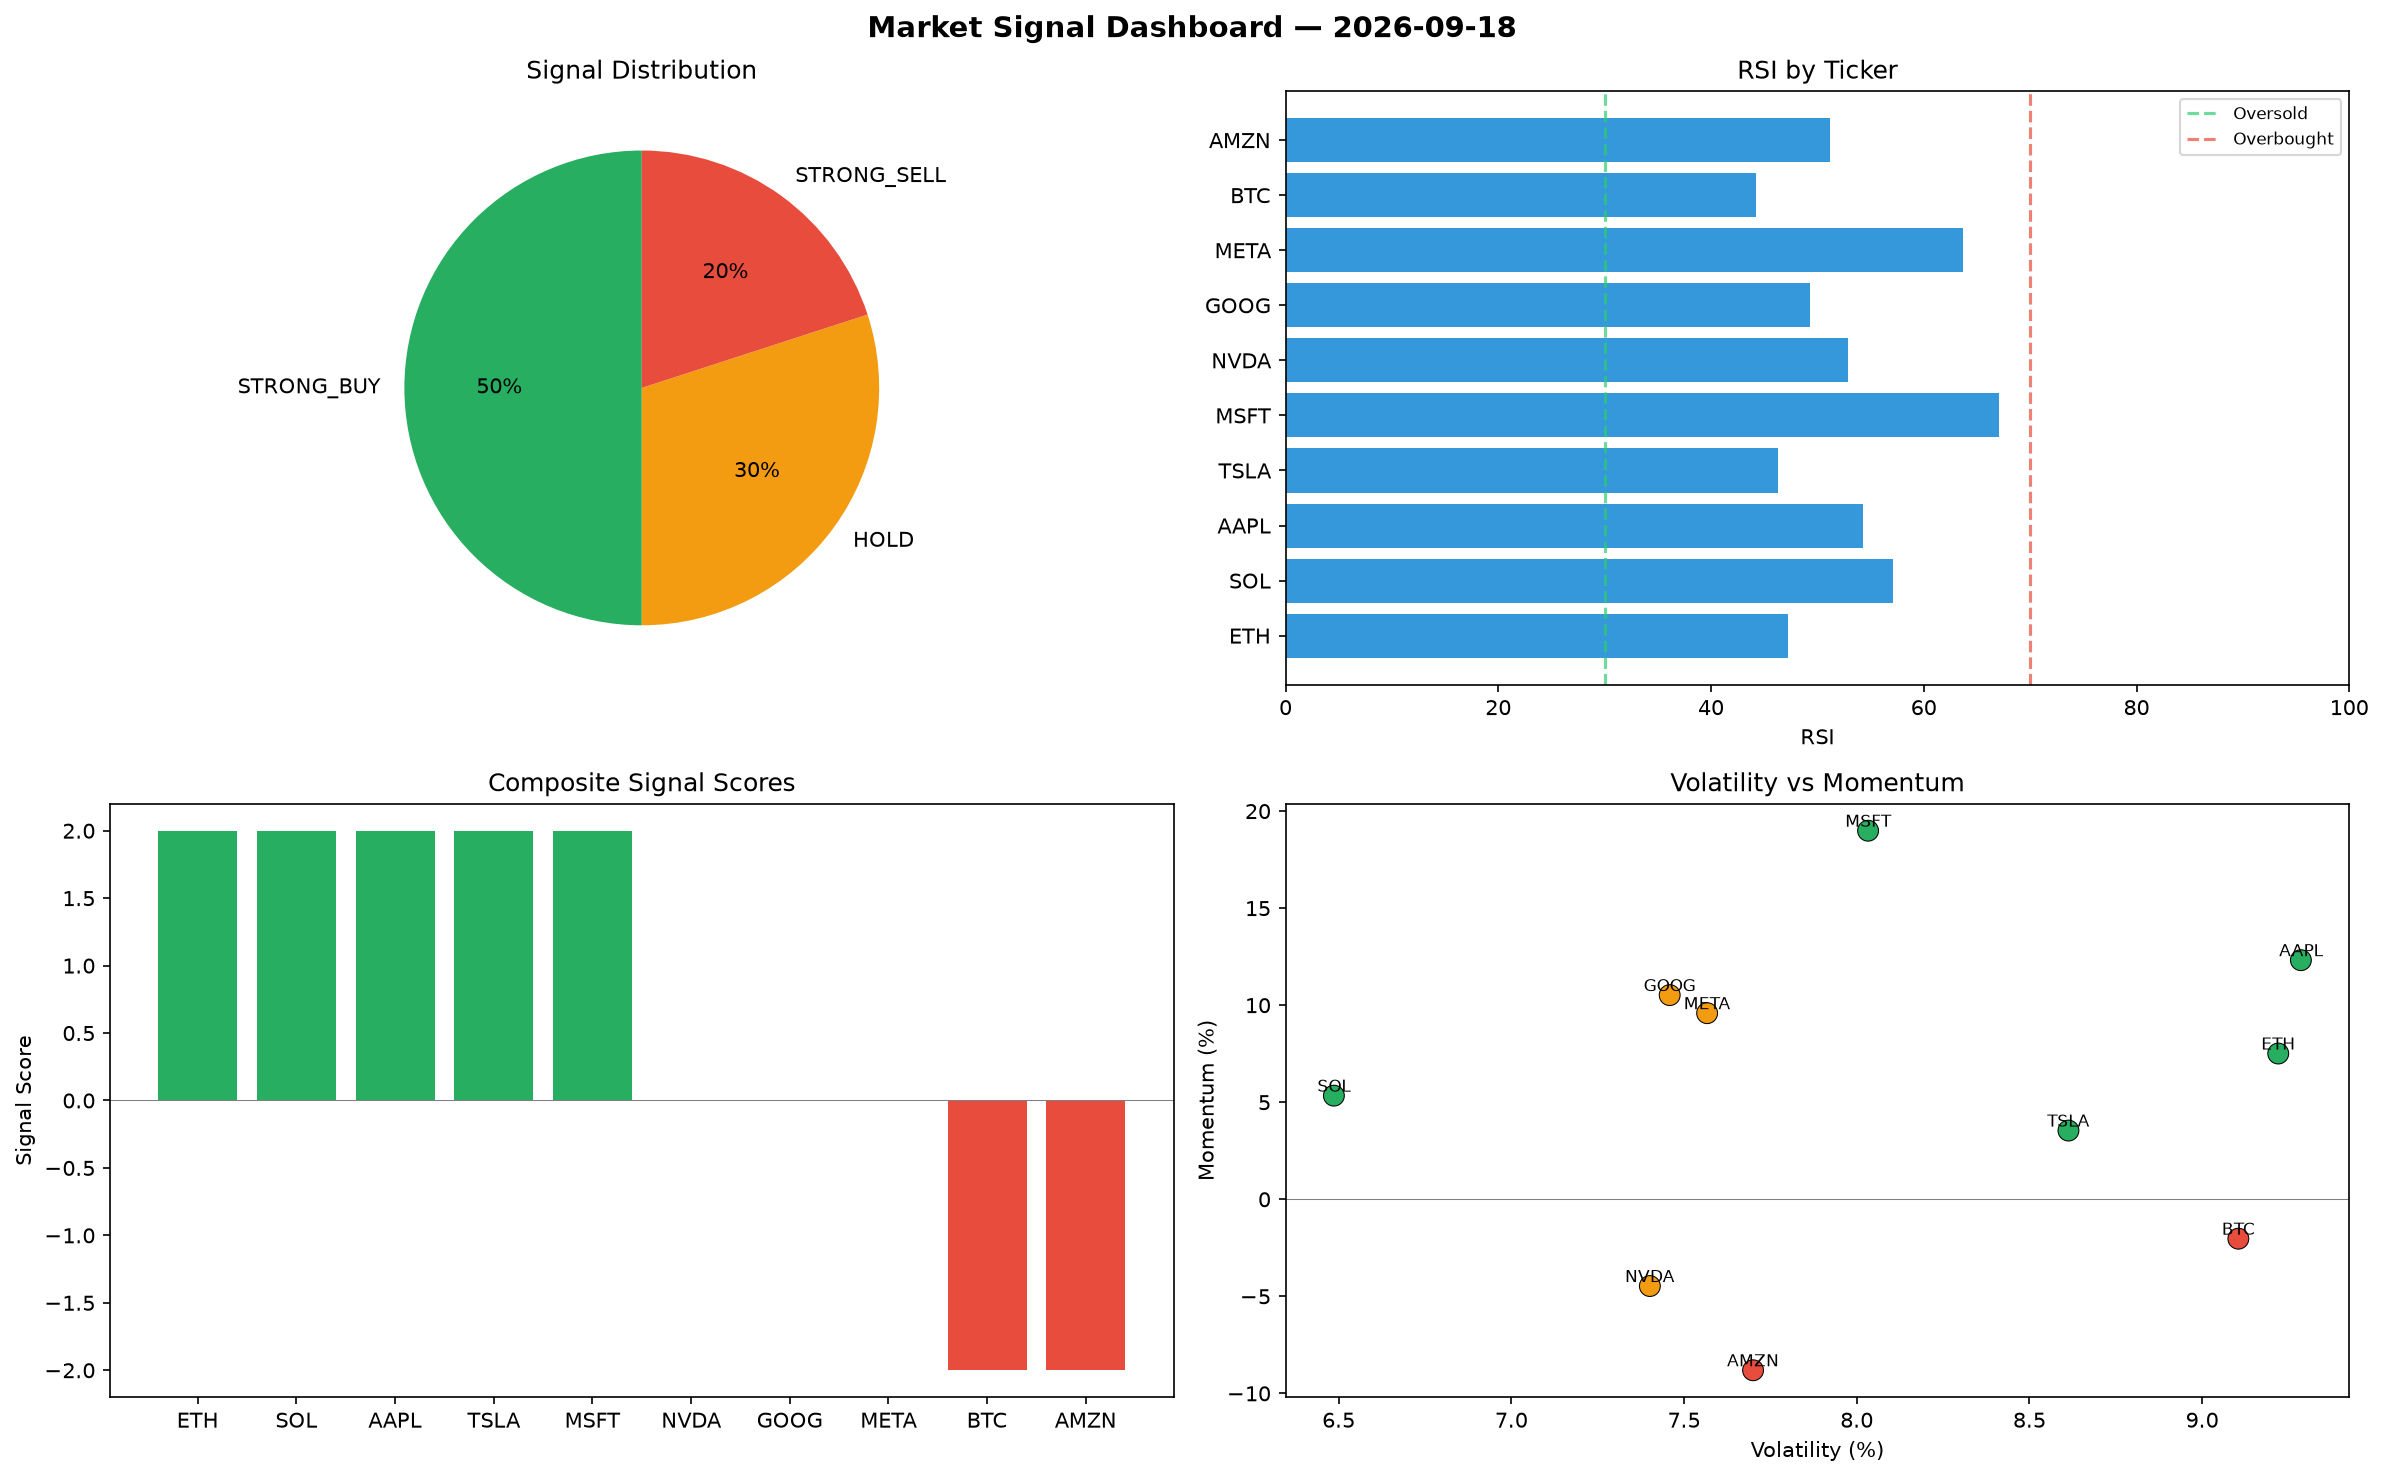
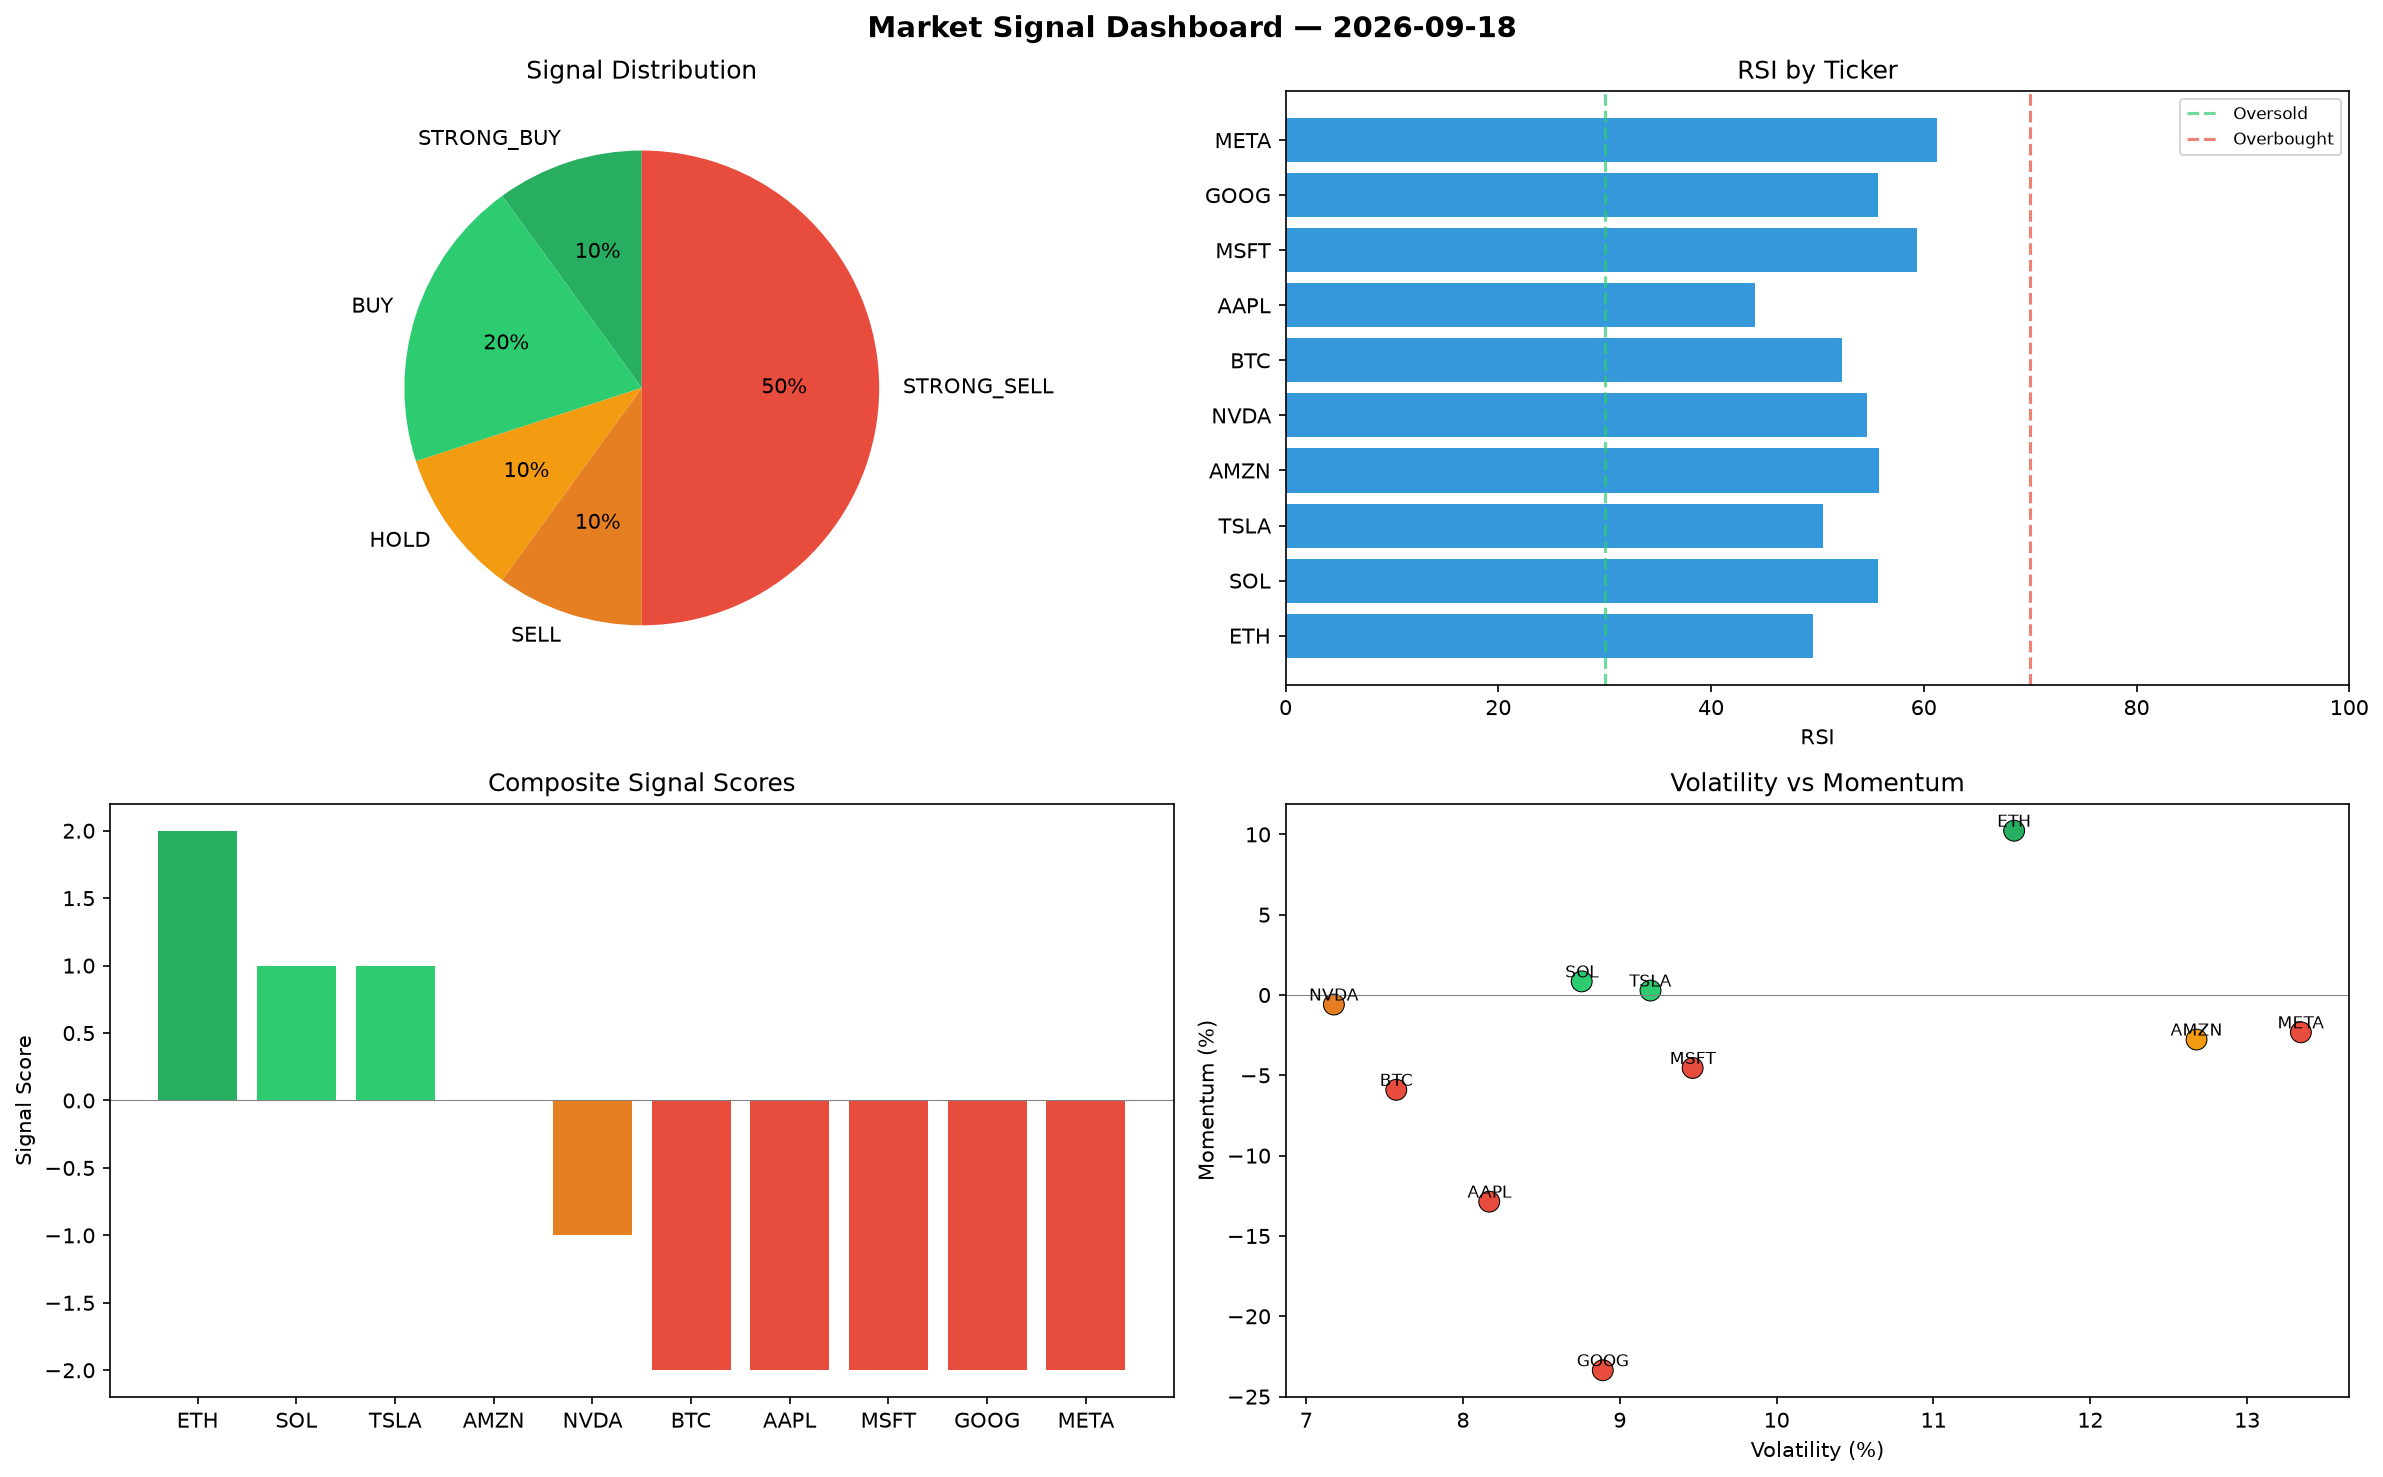
automated-bots: market signals 2026-09-18T17:47

diff --git a/logs/2026-09-18.md b/logs/2026-09-18.md
@@ -1,6 +1,6 @@
 # Market Signal Report — 2026-09-18
 
-**Run ID:** `25d41db846` | **Buy:** 5 | **Sell:** 2 | **Hold:** 3
+**Run ID:** `17df7ca035` | **Buy:** 3 | **Sell:** 6 | **Hold:** 1
 
 ![Dashboard](2026-09-18_dashboard.png)
 
@@ -8,28 +8,28 @@
 
 | Ticker | Price | Signal | Score | RSI | Momentum | Confidence |
 |--------|-------|--------|-------|-----|----------|------------|
-| ETH | $127.34 | **STRONG_BUY** | 2 | 47.24 | 0.0751 | 0.5 |
-| SOL | $1238.71 | **STRONG_BUY** | 2 | 57.09 | 0.0534 | 0.5 |
-| AAPL | $4903.18 | **STRONG_BUY** | 2 | 54.32 | 0.1232 | 0.5 |
-| TSLA | $4725.73 | **STRONG_BUY** | 2 | 46.33 | 0.0354 | 0.5 |
-| MSFT | $188.12 | **STRONG_BUY** | 2 | 67.06 | 0.1899 | 0.5 |
-| NVDA | $3841.45 | **HOLD** | 0 | 52.89 | -0.0447 | 0.0 |
-| GOOG | $776.88 | **HOLD** | 0 | 49.29 | 0.1052 | 0.0 |
-| META | $1590.55 | **HOLD** | 0 | 63.73 | 0.0959 | 0.0 |
-| BTC | $3230.95 | **STRONG_SELL** | -2 | 44.2 | -0.0203 | 0.5 |
-| AMZN | $4530.73 | **STRONG_SELL** | -2 | 51.15 | -0.0881 | 0.5 |
+| ETH | $1963.85 | **STRONG_BUY** | 2 | 49.55 | 0.1023 | 0.5 |
+| SOL | $3599.16 | **BUY** | 1 | 55.73 | 0.0085 | 0.25 |
+| TSLA | $1498.7 | **BUY** | 1 | 50.54 | 0.0028 | 0.25 |
+| AMZN | $1715.51 | **HOLD** | 0 | 55.78 | -0.0277 | 0.0 |
+| NVDA | $1219.37 | **SELL** | -1 | 54.67 | -0.0059 | 0.25 |
+| BTC | $911.26 | **STRONG_SELL** | -2 | 52.3 | -0.059 | 0.5 |
+| AAPL | $1189.47 | **STRONG_SELL** | -2 | 44.12 | -0.1286 | 0.5 |
+| MSFT | $342.06 | **STRONG_SELL** | -2 | 59.33 | -0.0454 | 0.5 |
+| GOOG | $3408.5 | **STRONG_SELL** | -2 | 55.7 | -0.2336 | 0.5 |
+| META | $3652.51 | **STRONG_SELL** | -2 | 61.27 | -0.0232 | 0.5 |
 
 ## Delta vs Yesterday
 
 | Ticker | Today | Yesterday | Price Change | Signal Changed |
 |--------|-------|-----------|-------------|----------------|
-| ETH | STRONG_BUY | STRONG_SELL | 📉 -81.88% | ⚠ YES |
-| SOL | STRONG_BUY | BUY | 📉 -71.48% | ⚠ YES |
-| AAPL | STRONG_BUY | STRONG_SELL | 📈 3484.72% | ⚠ YES |
-| TSLA | STRONG_BUY | STRONG_SELL | 📈 133.76% | ⚠ YES |
-| MSFT | STRONG_BUY | SELL | 📉 -94.69% | ⚠ YES |
-| NVDA | HOLD | STRONG_SELL | 📈 5.22% | ⚠ YES |
-| GOOG | HOLD | STRONG_BUY | 📈 82.37% | ⚠ YES |
-| META | HOLD | SELL | 📉 -66.02% | ⚠ YES |
-| BTC | STRONG_SELL | STRONG_SELL | 📈 14.48% | — |
-| AMZN | STRONG_SELL | STRONG_SELL | 📈 183.69% | — |
+| ETH | STRONG_BUY | STRONG_SELL | 📈 179.48% | ⚠ YES |
+| SOL | BUY | BUY | 📉 -17.12% | — |
+| TSLA | BUY | STRONG_SELL | 📉 -25.87% | ⚠ YES |
+| AMZN | HOLD | STRONG_SELL | 📈 7.42% | ⚠ YES |
+| NVDA | SELL | STRONG_SELL | 📉 -66.6% | ⚠ YES |
+| BTC | STRONG_SELL | STRONG_SELL | 📉 -67.71% | — |
+| AAPL | STRONG_SELL | STRONG_SELL | 📈 769.62% | — |
+| MSFT | STRONG_SELL | SELL | 📉 -90.35% | ⚠ YES |
+| GOOG | STRONG_SELL | STRONG_BUY | 📈 700.15% | ⚠ YES |
+| META | STRONG_SELL | SELL | 📉 -21.96% | ⚠ YES |
